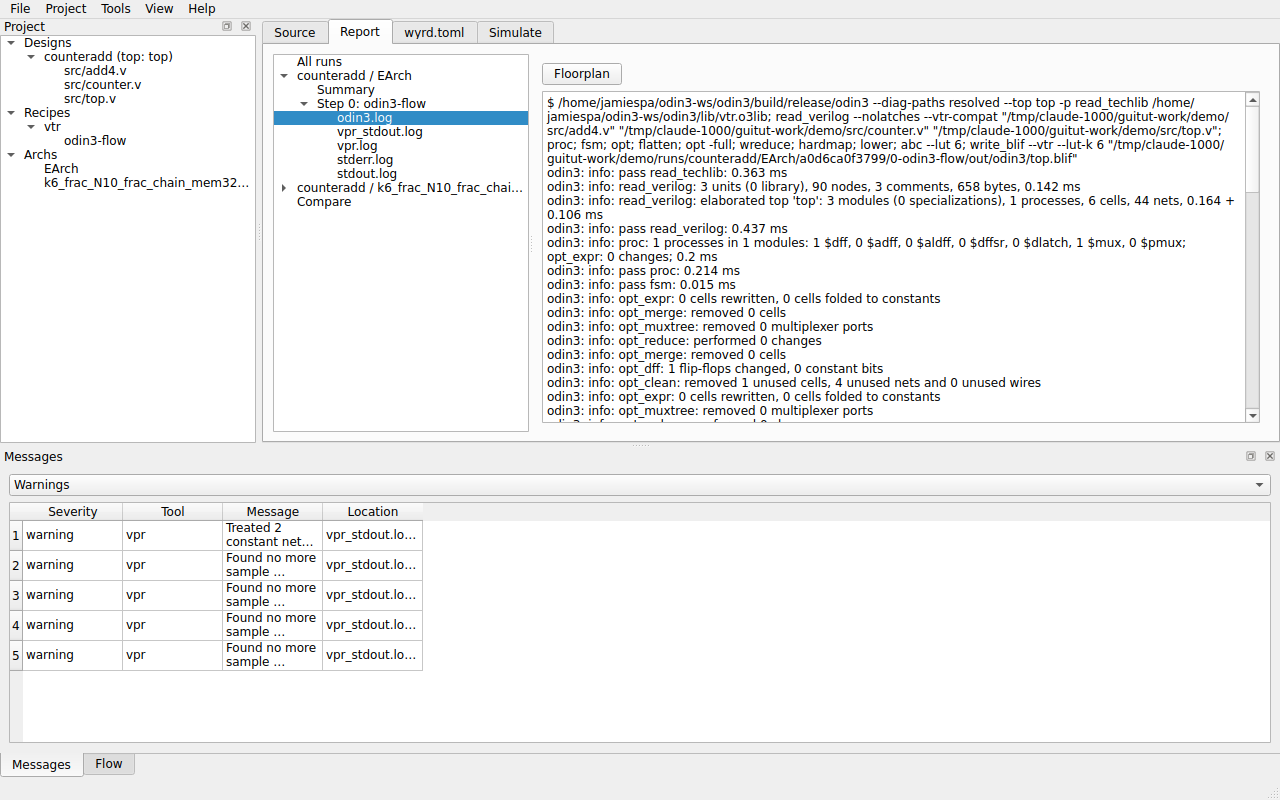
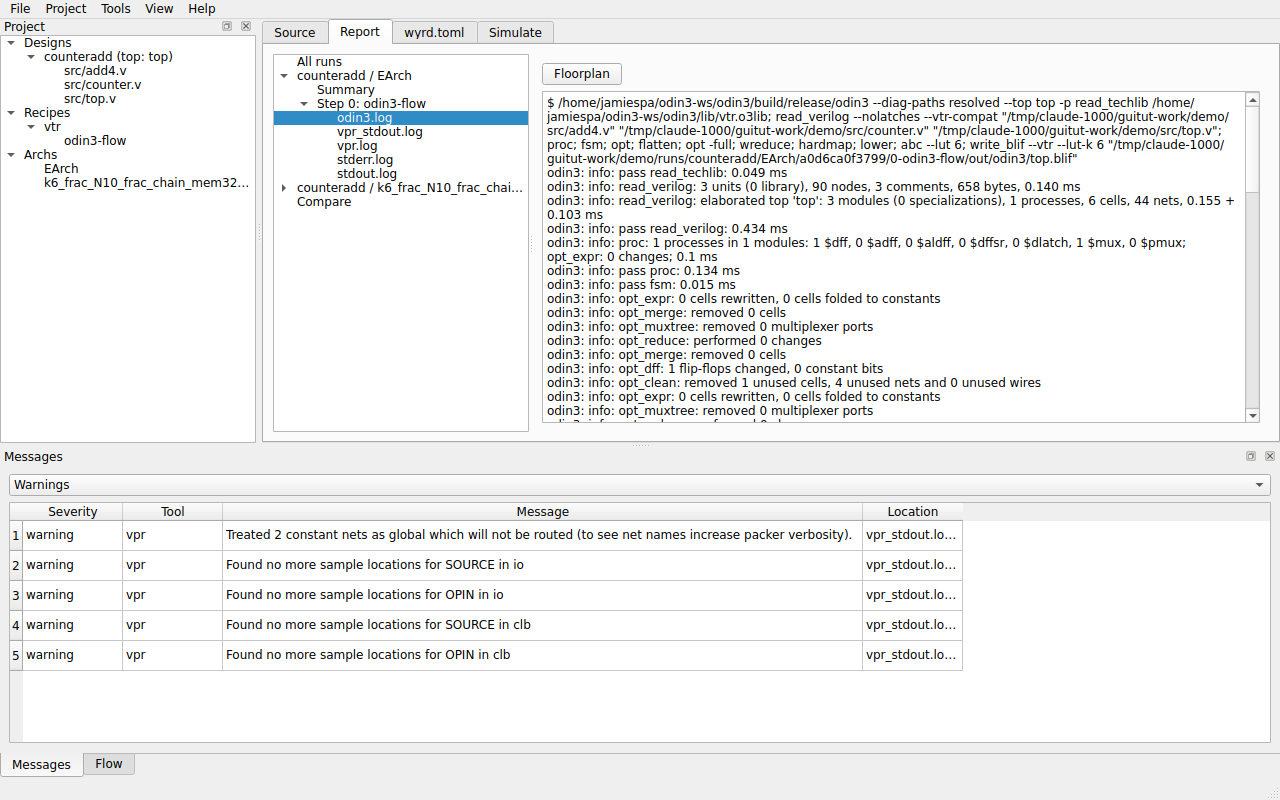
docs: GUI tutorial screenshots incl. Midgard III help and drag
Claude-Session: https://claude.ai/code/session_01A62VDZFXEPRTsZwptzzALQ

Changed region(s): [[0.1562, 0.625, 0.75, 0.8438], [0.5312, 0.3125, 0.5625, 0.3438]]

diff --git a/docs/tutorial-gui/shots/make_gui_shots.py b/docs/tutorial-gui/shots/make_gui_shots.py
@@ -125,6 +125,11 @@ def main(root: Path) -> int:
     os.environ["WYRD_CONFIG"] = str(cfg)
     subprocess.run([sys.executable, "-m", "wyrd.cli", "config", "init"], check=True,
                    capture_output=True)
+    vpr_gui = os.environ.get("VPR_GUI")  # a VPR built with graphics, for the floorplan step
+    if vpr_gui:
+        text = cfg.read_text(encoding="utf-8")
+        cfg.write_text(text.replace("\n[resources]", f'vpr_gui = "{vpr_gui}"\n\n[resources]', 1),
+                       encoding="utf-8")
     # Shell housekeeping shown in the tutorial: the folder and the Verilog sources.
     demo = root / "demo"
     shutil.copytree(CLI_PROJECT / "src", demo / "src")
@@ -148,7 +153,21 @@ def main(root: Path) -> int:
     menu_shot(app, win, "Tools", "gt-menu-tools")
     win.close()
     del other
+    midgard(root)
     return 0
+
+
+def midgard(root: Path) -> None:
+    """Midgard III pictures: pygame surfaces and the Qt editors, by the existing scripts."""
+    data, out = root / "midgard", root / "mg-out"
+    out.mkdir()
+    shots = TUT.parent / "tutorial" / "shots"
+    env = dict(os.environ, SDL_VIDEODRIVER="dummy", SDL_AUDIODRIVER="dummy")
+    for script, folder in ((shots / "midgard_shots.py", data), (HERE / "mg_gui_shots.py", root / "mgh"),
+                           (shots / "editor_shots.py", data)):
+        subprocess.run([sys.executable, str(script), str(folder), str(out)], check=True, env=env)
+    for png in out.glob("*.png"):
+        shutil.copy(png, IMAGES / f"gt-{png.name}")
 
 
 def design(app: QApplication, win: MainWindow) -> None:
@@ -168,7 +187,8 @@ def design(app: QApplication, win: MainWindow) -> None:
     # Edit the placeholder design out and set the project name and architectures, as typing would.
     text = win.editor.text.toPlainText()
     text = text.replace('name = "myproject"', 'name = "counteradd"')
-    text = text.replace('[[design]]\nname = "mydesign"\nfiles = ["CHANGE_ME.v"]\n# top = "top"\n\n',
+    text = text.replace('# One [[design]] per design. Replace the placeholder path with your Verilog files.\n'
+                        '[[design]]\nname = "mydesign"\nfiles = ["CHANGE_ME.v"]\n# top = "top"\n\n',
                         "")
     text = text.replace('design = ["mydesign", "counteradd"]', 'design = ["counteradd"]')
     text = text.replace('arch = ["k6_frac_N10_frac_chain_mem32K_40nm"]',
@@ -219,6 +239,7 @@ def run_demo(app: QApplication, win: MainWindow, demo: Path) -> None:
     show_dock(win, "Messages")
     grab(win, "gt-log")
     print("messages", win.messages.count())
+    win.messages.table.setColumnWidth(2, 640)
     win.messages.filter.setCurrentText("Warnings")
     pump(app, 0.5)
     grab(win, "gt-messages-warnings")
@@ -233,7 +254,7 @@ def run_demo(app: QApplication, win: MainWindow, demo: Path) -> None:
 def compare_demo(app: QApplication, win: MainWindow, root: Path, demo: Path) -> Path:
     # Shell housekeeping: a copy of the project whose top.v has a registered output.
     other = root / "demo2"
-    shutil.copytree(demo, other, ignore=shutil.ignore_patterns("runs", "*.vcd"))
+    shutil.copytree(demo, other, ignore=shutil.ignore_patterns("runs", "wyrd.db*", "*.vcd"))
     shutil.copy(CLI_PROJECT / "variants" / "top_registered.v", other / "src" / "top.v")
     win.open_project(other)
     wait(app, lambda: win.project is not None and win.project_dir == other)

diff --git a/docs/tutorial-gui/shots/mg_gui_shots.py b/docs/tutorial-gui/shots/mg_gui_shots.py
@@ -1,0 +1,89 @@
+"""Extra Midgard III pictures for the GUI tutorial: the help overlay (key H) and a sensor drag.
+
+    SDL_VIDEODRIVER=dummy SDL_AUDIODRIVER=dummy python mg_gui_shots.py DATA_DIR OUT_DIR
+
+The other Midgard pictures come from the CLI tutorial's shots/midgard_shots.py. Pictures are
+saved from the game's own surface (game.logical); DATA_DIR is a fresh Midgard data directory.
+"""
+
+from __future__ import annotations
+
+import os
+import sys
+from pathlib import Path
+
+os.environ.setdefault("SDL_VIDEODRIVER", "dummy")
+os.environ.setdefault("SDL_AUDIODRIVER", "dummy")
+
+import pygame
+
+from wyrd.midgard.ui.game import Game
+from wyrd.midgard.ui.levelscreen import LevelScreen
+
+PILE = (32, 1348)
+FROM_TILE = (5, 15)
+TO_TILE = (5, 17)
+
+
+def tile_pixel(ix: int, iy: int) -> tuple[int, int]:
+    return ix * 64 - 32, 100 + 1280 - (iy * 64 - 32)
+
+
+def save(game: Game, out: Path, name: str) -> None:
+    pygame.image.save(game.logical, str(out / f"{name}.png"))
+    print("shot", name)
+
+
+def mouse(game: Game, kind: int, pos: tuple[int, int]) -> None:
+    wpos = game.to_window(pos)
+    if kind == pygame.MOUSEMOTION:
+        ev = pygame.event.Event(kind, pos=wpos, rel=(0, 0), buttons=(0, 0, 0))
+    else:
+        ev = pygame.event.Event(kind, button=1, pos=wpos)
+    game.frame(0.016, [ev])
+
+
+def click(game: Game, pos: tuple[int, int]) -> None:
+    mouse(game, pygame.MOUSEMOTION, pos)
+    mouse(game, pygame.MOUSEBUTTONDOWN, pos)
+    mouse(game, pygame.MOUSEBUTTONUP, pos)
+
+
+def key(game: Game, k: int) -> None:
+    game.frame(0.0, [pygame.event.Event(pygame.KEYDOWN, key=k, mod=0, unicode="", scancode=0)])
+    game.frame(0.0, [pygame.event.Event(pygame.KEYUP, key=k, mod=0, scancode=0)])
+
+
+def main(data: Path, out: Path) -> int:
+    out.mkdir(parents=True, exist_ok=True)
+    pygame.display.init()
+    pygame.font.init()
+    game = Game(data, window_size=(960, 1100), editor=False, speed=1)
+    game.frame(0.016, [])
+    game.open_level(1)
+    game.frame(0.016, [])
+    screen = game.screen
+    assert isinstance(screen, LevelScreen)
+    key(game, pygame.K_h)
+    if not screen.help_open:
+        raise RuntimeError("H did not open the help overlay")
+    save(game, out, "mg-help")
+    key(game, pygame.K_h)
+    if screen.help_open:
+        raise RuntimeError("H did not close the help overlay")
+    click(game, PILE)
+    click(game, tile_pixel(*FROM_TILE))
+    start = tile_pixel(*FROM_TILE)
+    mouse(game, pygame.MOUSEMOTION, start)
+    mouse(game, pygame.MOUSEBUTTONDOWN, start)
+    mouse(game, pygame.MOUSEMOTION, tile_pixel(*TO_TILE))
+    save(game, out, "mg-drag")
+    mouse(game, pygame.MOUSEBUTTONUP, tile_pixel(*TO_TILE))
+    save(game, out, "mg-dragged")
+    game.close()
+    pygame.quit()
+    return 0
+
+
+if __name__ == "__main__":
+    sys.exit(main(Path(sys.argv[1]).resolve(), Path(sys.argv[2]).resolve()))
